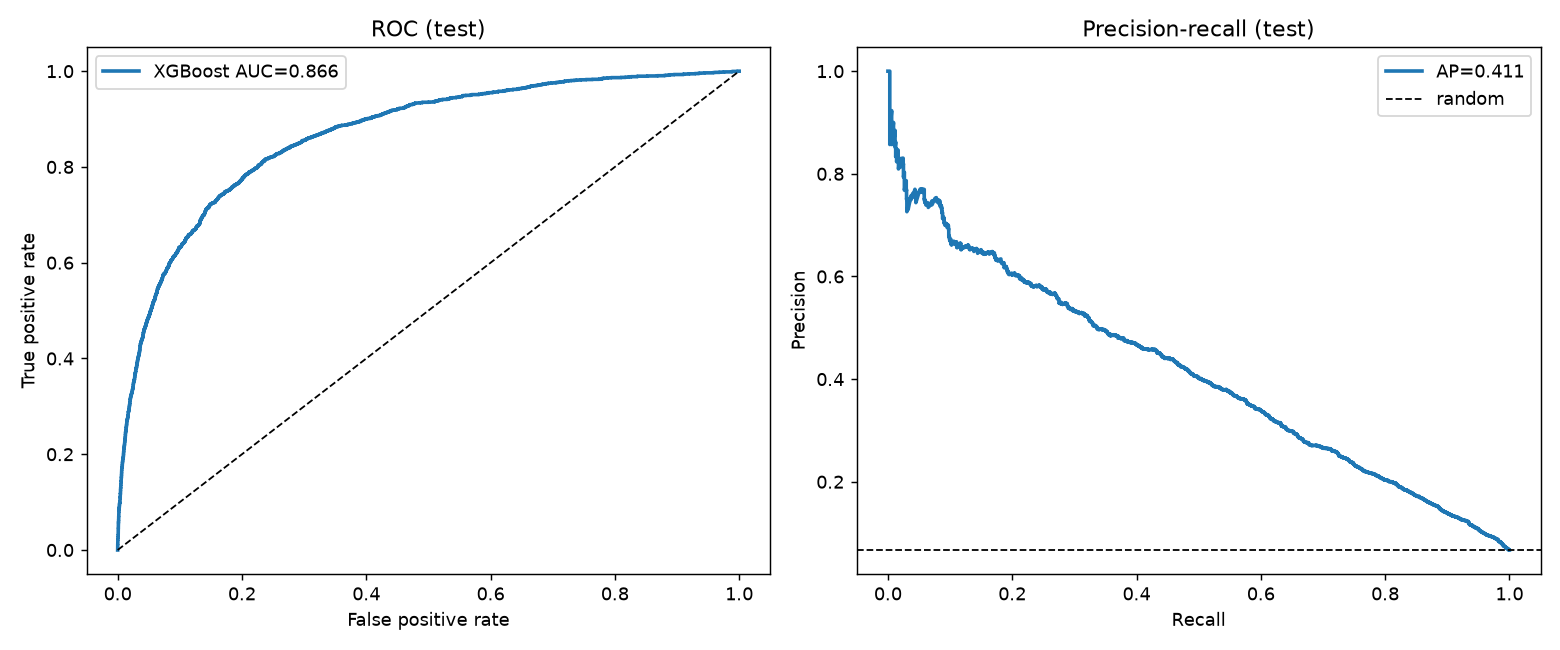
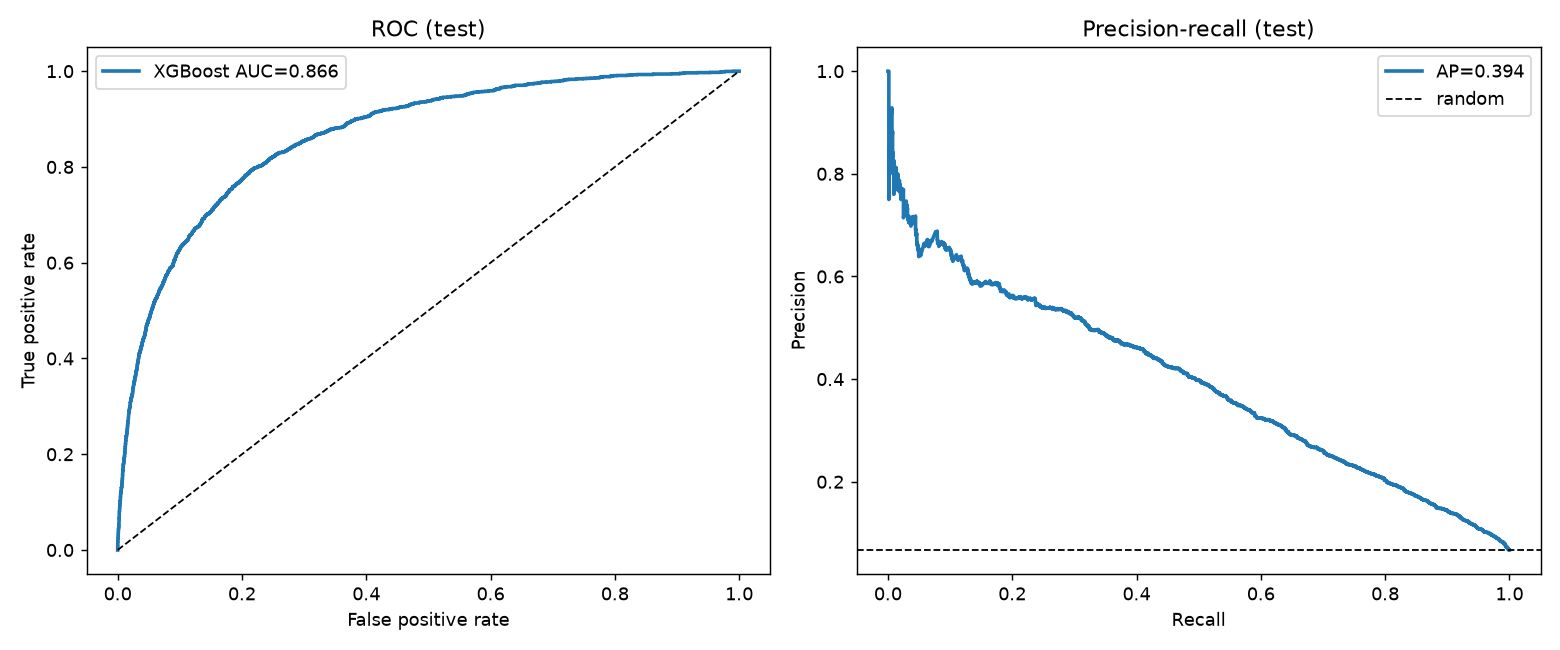
fix(train): split no longer depends on database row order
SELECT * without ORDER BY returned rows in different orders on PostgreSQL and
SQLite, so the seeded split produced different test sets (PR-AUC 0.412 vs 0.418).
Rows are now sorted by all columns before splitting; both backends give
identical metrics. README updated with the new run and split-variance note.

Claude-Session: https://claude.ai/code/session_01UazBzzktNbDRYBcmWD99j1

diff --git a/src/models/train.py b/src/models/train.py
@@ -208,12 +208,23 @@ def train_from_frame(df: pd.DataFrame, docs_dir: str = "docs", models_dir: str =
     return model, metrics
 
 
+def canonical_order(df: pd.DataFrame) -> pd.DataFrame:
+    """Sort rows by every column so the random split does not depend on database row order.
+
+    ``SELECT *`` without ORDER BY returns rows in an engine-specific order (SQLite and
+    PostgreSQL differ), and ``train_test_split`` with a fixed seed is only reproducible
+    when its input order is fixed. Rows are unique after de-duplication, so this order is total.
+    """
+    cols = sorted(df.columns)
+    return df.sort_values(cols, kind="mergesort", na_position="last").reset_index(drop=True)
+
+
 def train(engine=None) -> tuple[xgb.XGBClassifier, dict]:
     """Load ``credit_features`` from the database and train."""
     from src.utils.db import get_engine
 
     engine = engine or get_engine()
-    df = pd.read_sql("SELECT * FROM credit_features", engine)
+    df = canonical_order(pd.read_sql("SELECT * FROM credit_features", engine))
     logger.info("Loaded %d rows from credit_features", len(df))
     return train_from_frame(df)
 

diff --git a/tests/test_features_and_train.py b/tests/test_features_and_train.py
@@ -47,3 +47,18 @@ def test_training_writes_artifacts_and_beats_random(raw_credit, macro, tmp_path)
     assert metrics["xgboost"]["roc_auc"] > 0.6
     assert metrics["xgboost"]["pr_auc"] > metrics["default_rate"]
     assert (tmp_path / "xgb_credit_model.json").exists()
+
+
+def test_split_does_not_depend_on_row_order():
+    import numpy as np
+    import pandas as pd
+
+    from src.models.train import canonical_order, split_data
+
+    rng = np.random.default_rng(0)
+    df = pd.DataFrame({"a": rng.normal(size=400), "b": rng.integers(0, 5, 400), "y": rng.integers(0, 2, 400)})
+    df.loc[::17, "a"] = np.nan
+    shuffled = df.sample(frac=1, random_state=1)
+    s1 = split_data(*(lambda d: (d[["a", "b"]], d["y"]))(canonical_order(df)))
+    s2 = split_data(*(lambda d: (d[["a", "b"]], d["y"]))(canonical_order(shuffled)))
+    pd.testing.assert_frame_equal(s1.X_test.reset_index(drop=True), s2.X_test.reset_index(drop=True))

diff --git a/README.md b/README.md
@@ -35,12 +35,16 @@ Row counts come from `docs/pipeline_report.json`, which `run_pipeline.py` writes
 
 | Model | ROC-AUC | PR-AUC | KS | Defaults caught in top 10% of scores |
 |---|---:|---:|---:|---:|
-| Logistic regression (baseline) | 0.861 | 0.379 | 0.569 | 54.1% |
-| XGBoost | **0.866** | **0.412** | **0.578** | **55.4%** |
+| Logistic regression (baseline) | 0.857 | 0.360 | 0.561 | 53.0% |
+| XGBoost | **0.866** | **0.394** | **0.579** | **54.5%** |
 
-Default rate is 6.7%, so a random ranking has PR-AUC ≈ 0.067. At the decision threshold chosen on the validation split (0.21), XGBoost flags 2,539 of 29,876 test borrowers with 39.9% precision and 50.6% recall. Full numbers, including confusion matrices and library versions, are in [`docs/model_metrics.json`](docs/model_metrics.json).
+Default rate is 6.7%, so a random ranking has PR-AUC ≈ 0.067. At the decision threshold chosen on the validation split (0.23), XGBoost flags 2,325 of 29,876 test borrowers with 41.2% precision and 47.8% recall. Full numbers, including confusion matrices and library versions, are in [`docs/model_metrics.json`](docs/model_metrics.json).
 
-**Reading the result:** XGBoost beats the baseline mostly on PR-AUC (+0.033). ROC-AUC differs by only 0.005, which says most of the signal is captured by the original ten columns and that the gain from boosting is real but modest.
+**Reading the result:** XGBoost beats the baseline mostly on PR-AUC (+0.034). ROC-AUC differs by only 0.009, which says most of the signal is captured by the original ten columns and that the gain from boosting is real but modest.
+
+**How stable is this?** Across three different random splits seen during the audit, XGBoost PR-AUC ranged from 0.394 to 0.418 and ROC-AUC from 0.866 to 0.868. Differences between models smaller than about 0.02 PR-AUC should not be read as real on a single split.
+
+The numbers are identical whether the pipeline runs on PostgreSQL or SQLite: rows are put in a canonical order before the seeded split (see audit item 10).
 
 ## Audit, October 2026: what changed and why
 
@@ -56,7 +60,8 @@ I re-ran this project from a clean environment and found problems in the first v
 | 6 | **Kubernetes ran a batch job as a Deployment** with `restartPolicy: Always`, so the pipeline would restart forever. The Namespace was declared after objects that use it. Database password was committed in base64. | `k8s/` v1 | `Job` with `OnFailure`, namespace applied first, Secret created with `kubectl` (see `k8s/README.md`). |
 | 7 | **Password hard-coded** in `Dockerfile` and `docker-compose.yml`. | — | Read from `.env`, which is git-ignored. Container runs as a non-root user. |
 | 8 | **README numbers did not match the code** (e.g. "491 invalid ages", 149,391 cleaned rows). | Actual: 14 invalid ages, 149,377 rows. | README numbers are now copied from `docs/pipeline_report.json` and `docs/model_metrics.json`. |
-| 9 | **No tests, no CI.** | — | 10 pytest tests on synthetic data, including an end-to-end run on SQLite; GitHub Actions runs lint, tests and a Docker build. |
+| 9 | **No tests, no CI.** | — | 11 pytest tests on synthetic data, including an end-to-end run on SQLite; GitHub Actions runs lint, tests and a Docker build. |
+| 10 | **The split depended on database row order.** `SELECT *` without `ORDER BY` returns rows in an engine-specific order, so the same seed gave different test sets on PostgreSQL and SQLite (PR-AUC 0.412 vs 0.418). | Two runs on identical data, two backends. | `canonical_order()` sorts rows by all columns before splitting; a test checks that shuffled input gives the same split. Both backends now produce identical `docs/model_metrics.json`. |
 
 ## How to run
 
@@ -67,7 +72,7 @@ You need the Kaggle file `cs-training.csv` from [Give Me Some Credit](https://ww
 ```bash
 python3 -m venv .venv && source .venv/bin/activate
 pip install -r requirements-dev.txt
-python -m pytest -q          # 10 passed
+python -m pytest -q          # 11 passed
 ruff check src tests run_pipeline.py
 ```
 
@@ -88,7 +93,15 @@ python run_pipeline.py
 
 Behind a firewall that blocks `api.worldbank.org`, export the four indicators to a CSV (`year,inflation_rate,lending_interest_rate,gdp_growth_rate,unemployment_rate`) and set `MACRO_CSV=path/to/file.csv`.
 
-### 4. Local Kubernetes
+### 4. Full pipeline on SQLite (no Docker, no PostgreSQL, about 20 seconds)
+
+```bash
+DATABASE_URL=sqlite:///data/pipeline.db python run_pipeline.py
+```
+
+Produces the same `docs/model_metrics.json` as the PostgreSQL run.
+
+### 5. Local Kubernetes
 
 See [`k8s/README.md`](k8s/README.md).
 
